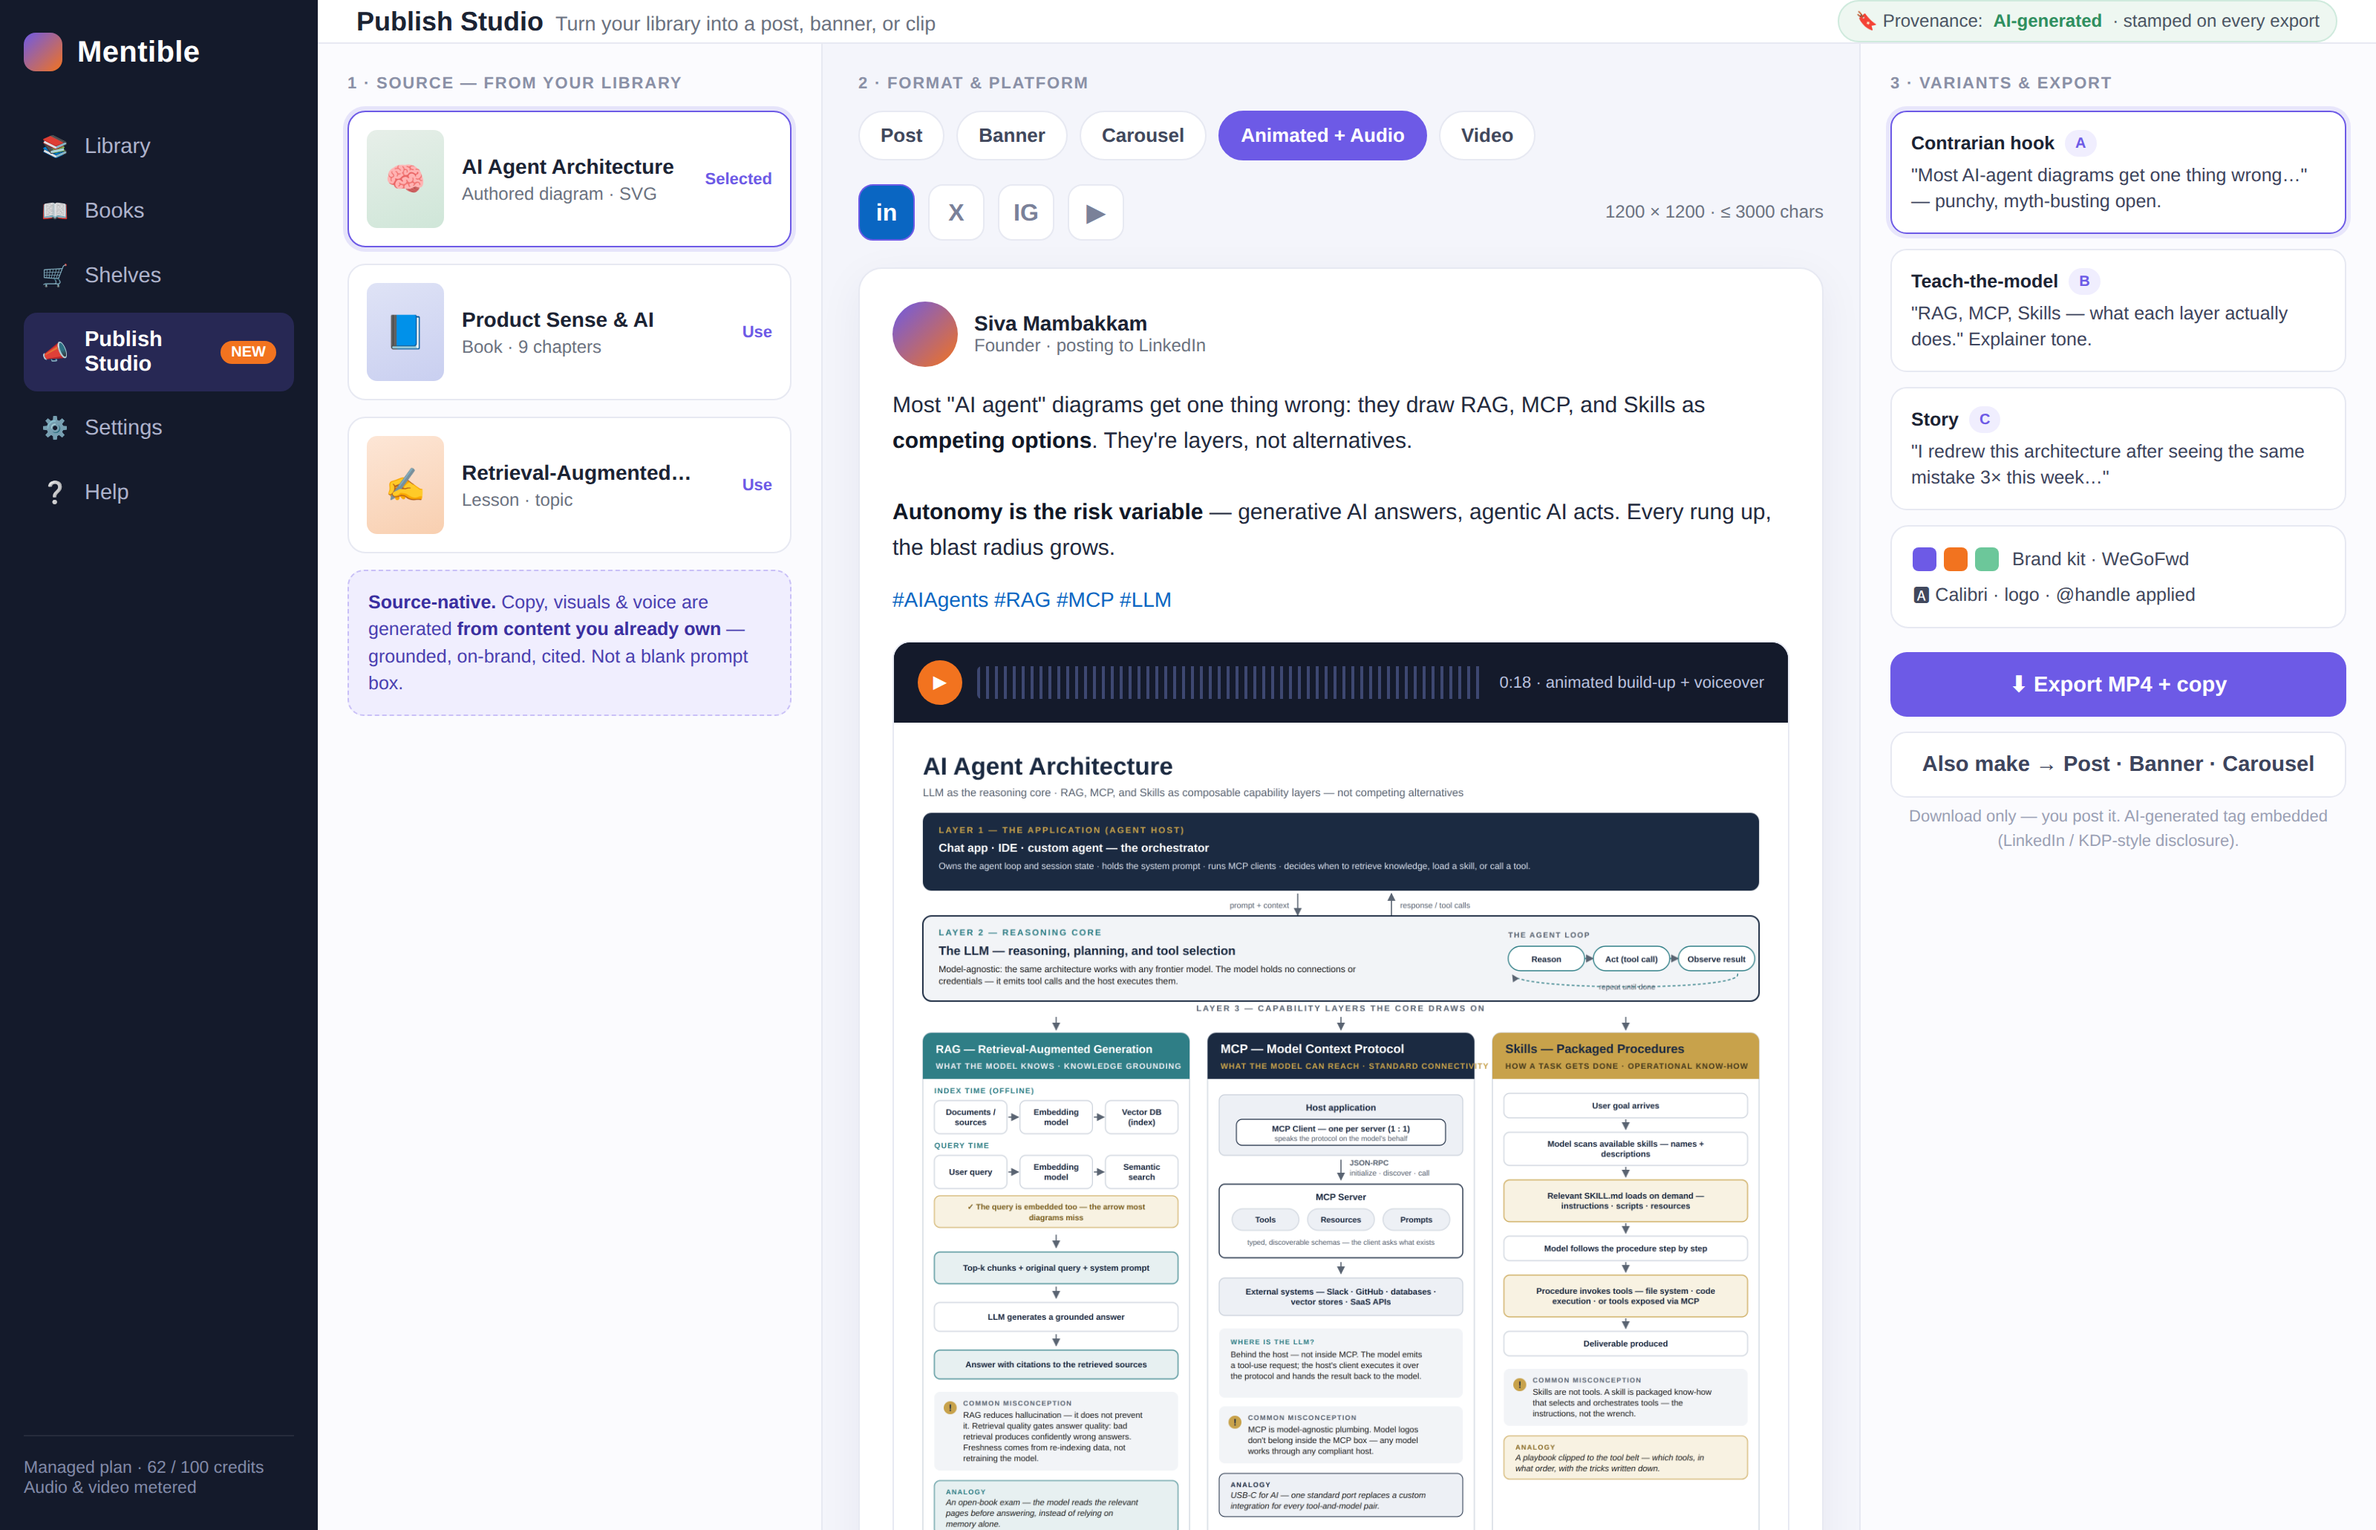
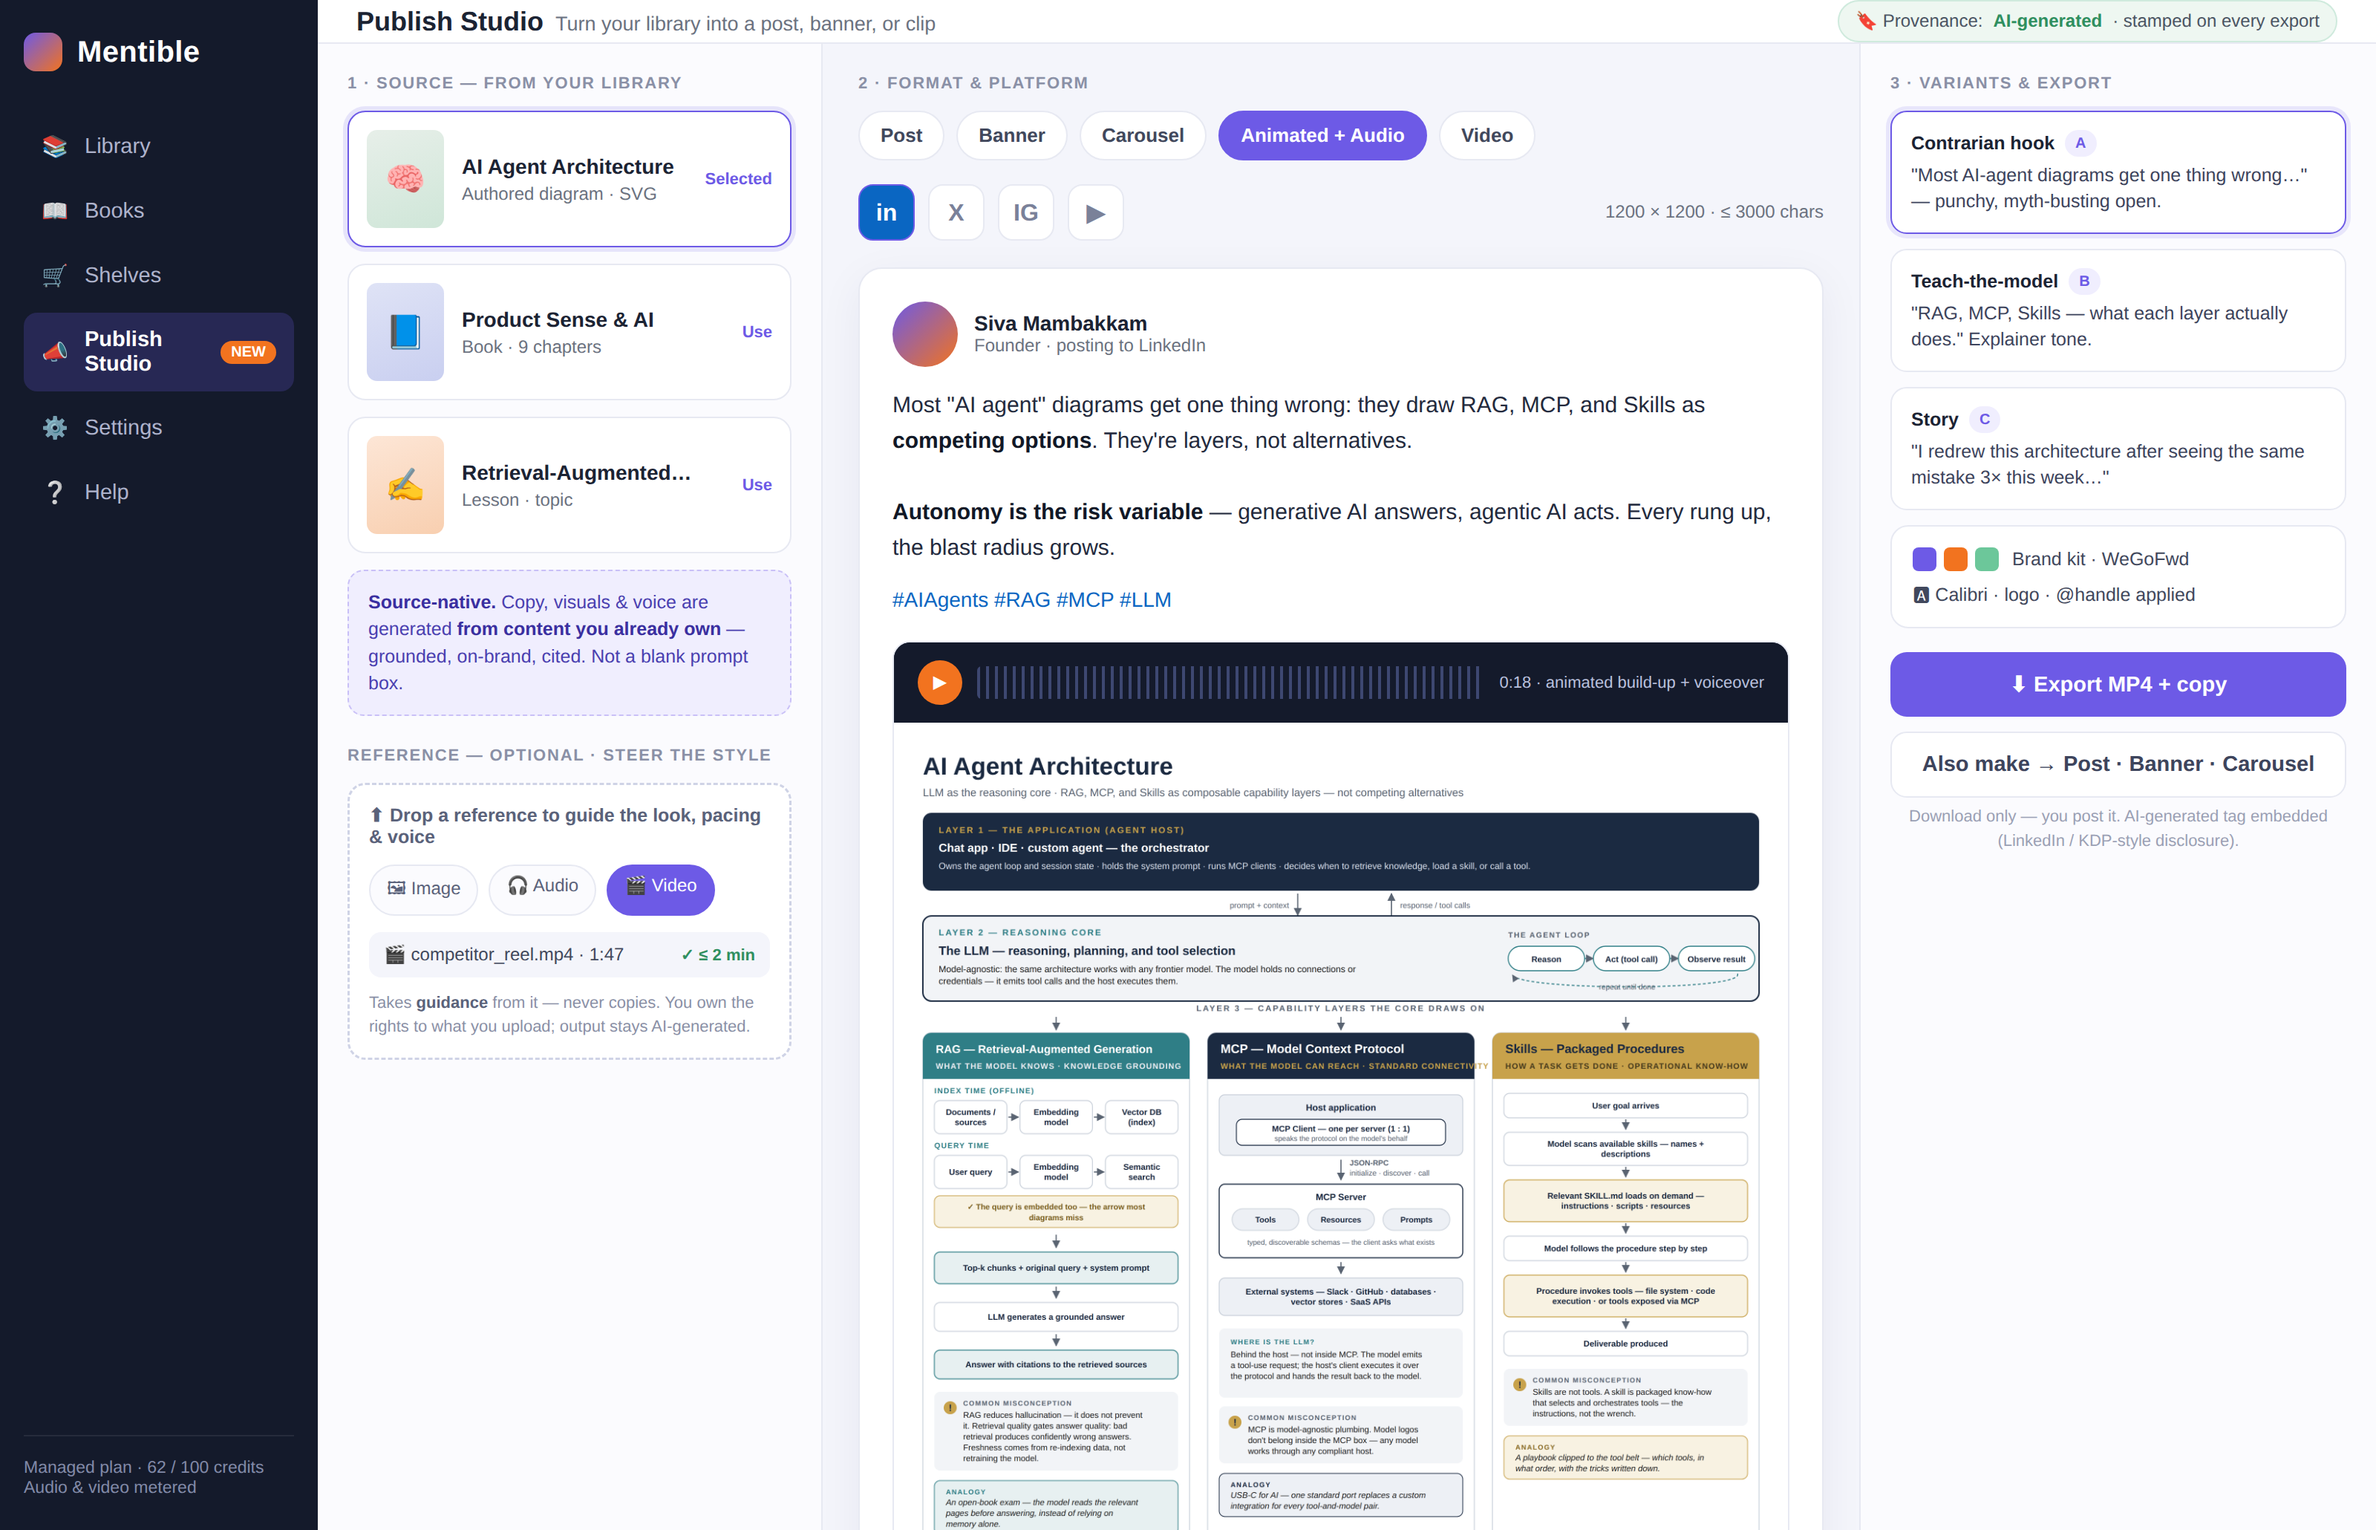
docs(proposals): add reference/guidance inputs (image/audio/video ≤2min)
Studio accepts optional reference media to STEER the output's style,
pacing, and voice — distinct from the FR-1 owned-content source:

- FR-1b: upload image/audio/video (≤2 min hard cap) as guidance; model
  takes cues but produces an ORIGINAL artifact, never a copy.
- Ingest shape: image→vision, audio→STT, video→STT+keyframes; transient
  passthrough (ADR-036 custody), needs vision seam on + an STT provider.
- Derivative-work guardrail (FR-7): a reference may be a third party's
  work — the mockup's own diagram was Claude-generated from someone
  else's output — so UX frames it "take guidance from, never copy,"
  flags rights responsibility, keeps the AI-generated tag. Same posture
  as the #336-C rights guardrail, extended to reference inputs.
- Pipeline diagram, §5 cost-centers, phasing, and the mockup updated
  (adds a "Reference — optional" drop zone).

diff --git a/docs/proposals/assets/short-form-studio-landscape/mentible-studio-mockup.html b/docs/proposals/assets/short-form-studio-landscape/mentible-studio-mockup.html
@@ -52,6 +52,15 @@
   .src-card .pick{margin-left:auto; font-size:11px; font-weight:700; color:var(--indigo);}
   .moat{margin-top:8px; background:var(--chip); border:1px dashed #c9c0f7; border-radius:11px; padding:12px 13px; font-size:12.5px; color:#4a3fb0; line-height:1.45;}
   .moat b{color:#3a2fa0;}
+  .refdrop{border:1.5px dashed #cfd3e6; border-radius:12px; padding:13px; background:#fff;}
+  .rd-top{font-size:12.5px; color:#5a627a; font-weight:600; margin-bottom:11px;}
+  .rd-chips{display:flex; gap:7px; margin-bottom:11px;}
+  .rc{font-size:12px; padding:6px 11px; border-radius:18px; border:1px solid var(--line); color:#5a627a; background:#fbfbfe;}
+  .rc.on{border-color:var(--indigo); color:#fff; background:var(--indigo);}
+  .rd-file{font-size:12px; color:#41485c; background:#f4f5fb; border-radius:8px; padding:8px 10px; display:flex; align-items:center; gap:8px;}
+  .rd-file .ok{margin-left:auto; color:#2f8f5f; font-weight:700; font-size:11px;}
+  .rd-note{font-size:11px; color:#8a90a6; line-height:1.45; margin-top:9px;}
+  .rd-note b{color:#5a627a;}
 
   /* middle composer */
   .fmt{display:flex; gap:8px; margin-bottom:16px; flex-wrap:wrap;}
@@ -139,6 +148,16 @@
         </div>
         <div class="moat">
           <b>Source-native.</b> Copy, visuals &amp; voice are generated <b>from content you already own</b> — grounded, on-brand, cited. Not a blank prompt box.
+        </div>
+
+        <div class="label" style="margin-top:20px;">Reference — optional · steer the style</div>
+        <div class="refdrop">
+          <div class="rd-top">⬆ Drop a reference to guide the look, pacing &amp; voice</div>
+          <div class="rd-chips">
+            <span class="rc">🖼 Image</span><span class="rc">🎧 Audio</span><span class="rc on">🎬 Video</span>
+          </div>
+          <div class="rd-file">🎬 competitor_reel.mp4 · 1:47 <span class="ok">✓ ≤ 2 min</span></div>
+          <div class="rd-note">Takes <b>guidance</b> from it — never copies. You own the rights to what you upload; output stays AI-generated.</div>
         </div>
       </div>
 

diff --git a/docs/proposals/2026-07-27-short-form-publishing-studio.md b/docs/proposals/2026-07-27-short-form-publishing-studio.md
@@ -32,10 +32,24 @@ Platform targets (each pins dimensions + char/hashtag limits): **LinkedIn, X/Twi
 
 ## 3. Functional requirements
 
-### FR-1 — Input / source
+### FR-1 — Input / source (the source-of-truth)
 - Generate from a **prompt** (scoped, à la Mentible's 6-dimension IP: topic, audience, tone, length, format, platform).
 - Generate from an **existing asset**: a Mentible book/lesson/topic, an uploaded image or SVG (like today's diagram), or pasted text.
 - "Repurpose" flow: one source → several formats at once (post + banner + audio from the same idea).
+
+### FR-1b — Reference / guidance inputs (steer, don't source)
+Distinct from FR-1: the user uploads **example media to guide the output's style, structure, or tone** — "make it look/sound like this," not "publish this."
+- Accept **image, audio, and short-form video (≤ 2 min)** as reference material.
+- The model **takes guidance** from a reference (layout, visual style, pacing, voice, structure) and produces an *original* artifact — it does not reproduce the input.
+- Reference is optional and layers on top of the FR-1 source (owned content stays the source-of-truth; reference only shapes *how* it's expressed).
+- Multiple references allowed (e.g. a layout ref + a voice ref).
+- **The 2-minute cap is a hard cost/scope bound** — audio/video reference must be transcribed and (for video) keyframe-sampled for the model; unbounded media would blow up ingest cost and latency.
+
+Technical shape:
+- **Image ref** → a vision-capable model reads it (ties to ADR-036 vision-captions; note `Capabilities.vision` is not yet true — this needs the vision seam turned on for the profile).
+- **Audio ref** → transcribe (STT) + optionally a voice-style descriptor; the transcript + style notes feed the prompt.
+- **Video ref (≤2 min)** → transcribe the audio track **and** sample keyframes for the vision model; derive pacing/beat guidance for the animated/video output.
+- **Custody:** a reference upload is a **deliberate, transient passthrough** to the provider (the ADR-036 stance) — used for the generation, not retained as at-rest training/library content unless the user explicitly saves it. Never silently promoted to stored content.
 
 ### FR-2 — Brand kit
 - A reusable **brand asset set**: palette, fonts, logo, handle, default hashtags, tone-of-voice preset.
@@ -60,9 +74,14 @@ Platform targets (each pins dimensions + char/hashtag limits): **LinkedIn, X/Twi
 ### FR-6 — Library / versioning
 - Save generated pieces, re-open, re-export, track which source they came from.
 
-### FR-7 — Provenance / disclosure
+### FR-7 — Provenance / disclosure (+ derivative-input guardrail)
 - Every artifact carries an **AI-generated** provenance marker (ties directly to the KDP AI-disclosure workstream, #336-A — same discipline: this content is AI-*generated*, label it).
 - Optional visible watermark / handle.
+- **Reference-input IP guardrail (FR-1b).** A user-supplied reference may be **someone else's work** — the motivating diagram was itself Claude-generated *in reference to a third party's output*. The product must:
+  - frame references as *"take guidance from,"* never *"reproduce,"* in both UX copy and the prompt;
+  - not output a near-copy of a reference (style/structure guidance only);
+  - surface a lightweight reminder that the user is responsible for rights to any reference they upload, and that the derived artifact is AI-generated.
+  - This is the same posture as the PD-republish / rights guardrail in #336-C — extended from "content sources" to "reference inputs."
 
 ### FR-8 — Distribution
 - **MVP: download only** — the user posts it themselves (same stance as Mentible/KDP: we produce the artifact, no auto-submit).
@@ -73,11 +92,17 @@ Platform targets (each pins dimensions + char/hashtag limits): **LinkedIn, X/Twi
 ## 4. Pipeline / architecture
 
 ```
- idea | asset
-      │
-      ▼
- ┌─────────────┐   scoped prompt (platform + format + brand)
- │  SCOPING    │───────────────────────────────────────────┐
+ idea | asset (FR-1 source)      reference media (FR-1b: image/audio/video ≤2min)
+      │                                    │
+      │                                    ▼
+      │                          ┌───────────────────────┐
+      │                          │ REFERENCE INGEST       │ image→vision · audio→STT
+      │                          │ transcribe+keyframe →  │ · video→STT+keyframes
+      │                          │ style/pacing guidance  │ (transient passthrough)
+      │                          └───────────┬────────────┘
+      ▼                                      │ (guides, not sources)
+ ┌─────────────┐   scoped prompt (platform + format + brand + ref-guidance)
+ │  SCOPING    │◄──────────────────────────────────────────┐
  └─────────────┘                                            │
       │                                                     ▼
       ▼                                             ┌───────────────┐
@@ -117,7 +142,8 @@ Platform targets (each pins dimensions + char/hashtag limits): **LinkedIn, X/Twi
 5. **Platform spec table** — dimensions, char limits, hashtag norms, safe-zones per platform; keep current as platforms change.
 6. **Brand-kit management UI + storage.**
 7. **Multi-format "repurpose" orchestration** — fan one source into N artifacts, each its own render path.
-8. **Direct-publish (deferred)** — per-platform OAuth, API quirks, review/queue. Large; not MVP.
+8. **Reference-input ingest (FR-1b)** — multimodal *input*, not output: vision read of images, STT for audio, STT+keyframe-sampling for ≤2-min video, distilled into style/pacing guidance. Needs the **vision seam turned on** (ADR-036) + an **STT provider** (metered like TTS). The 2-min cap bounds cost. Plus the derivative-work guardrail (FR-7).
+9. **Direct-publish (deferred)** — per-platform OAuth, API quirks, review/queue. Large; not MVP.
 
 ---
 
@@ -141,6 +167,8 @@ Platform targets (each pins dimensions + char/hashtag limits): **LinkedIn, X/Twi
 | **P5 — Publish** | Optional direct-to-platform posting | per-platform OAuth/API |
 
 MVP = **P1**. It already delivers today's manual LinkedIn workflow, automated — and reuses ~80% existing engine.
+
+**Reference inputs (FR-1b) phase in by modality:** *image* reference alongside **P1/P2** (vision read only); *audio/video* reference at **P4**, where it shares the STT/vision + metered-media machinery with the audio-output work. The derivative-work guardrail (FR-7) ships with the first reference modality.
 
 ---
 

diff --git a/docs/proposals/2026-07-27-short-form-publishing-ui-landscape.md b/docs/proposals/2026-07-27-short-form-publishing-ui-landscape.md
@@ -69,6 +69,8 @@ A three-step, single-screen flow — **Source → Format & platform → Variants
 
 **1 · Source — from your library (the differentiator).** The first column is *not* a prompt box — it's your own **books, lessons, and authored diagrams**. Copy, visuals, and voice are generated *from content you already own*: grounded, on-brand, citable. This is the moat competitors structurally can't copy — they have no library. (Ties to the multi-modal Personal Library north-star + grounded-authoring ADR-029/033.)
 
+**1b · Reference — optional, steer the style.** Below the source, an optional drop zone accepts an **image, audio clip, or short-form video (≤ 2 min)** as *guidance* — "make it look/sound/pace like this." The model takes structural/stylistic cues (layout, voice, beat) and produces an **original** artifact; it does not reproduce the reference. Ingest is multimodal (vision read for images, transcription + keyframe sampling for audio/video) and a **transient passthrough** (ADR-036 custody), not stored content. Because a reference may be someone else's work — the diagram used in this very mockup was itself Claude-generated *from a third party's output* — the UX frames it as "take guidance from, never copy," reminds the user they're responsible for rights to what they upload, and keeps the AI-generated provenance tag on the output (requirements §FR-1b / FR-7).
+
 **2 · Format & platform.** Format tabs (*Post · Banner · Carousel · Animated+Audio · Video*) × platform selector that pins dimensions and char limits live (borrowed from OpusClip/Taplio). The preview renders at true aspect ratio, including the **animated+voiced** case — motion authored as SVG (existing decision), voiced by an ElevenLabs-class provider, muxed to MP4 on our own engine.
 
 **3 · Variants & export.** A/B/C copy variants (Taplio-style, in your voice), a **Brand Kit** row (palette/font/logo/handle auto-applied), then **Export + one-click "Also make → Post · Banner · Carousel"** repurpose fan-out. Every export carries an embedded **AI-generated provenance tag** (same discipline as the KDP AI-disclosure work, #336-A) — download-only, the user posts it.
